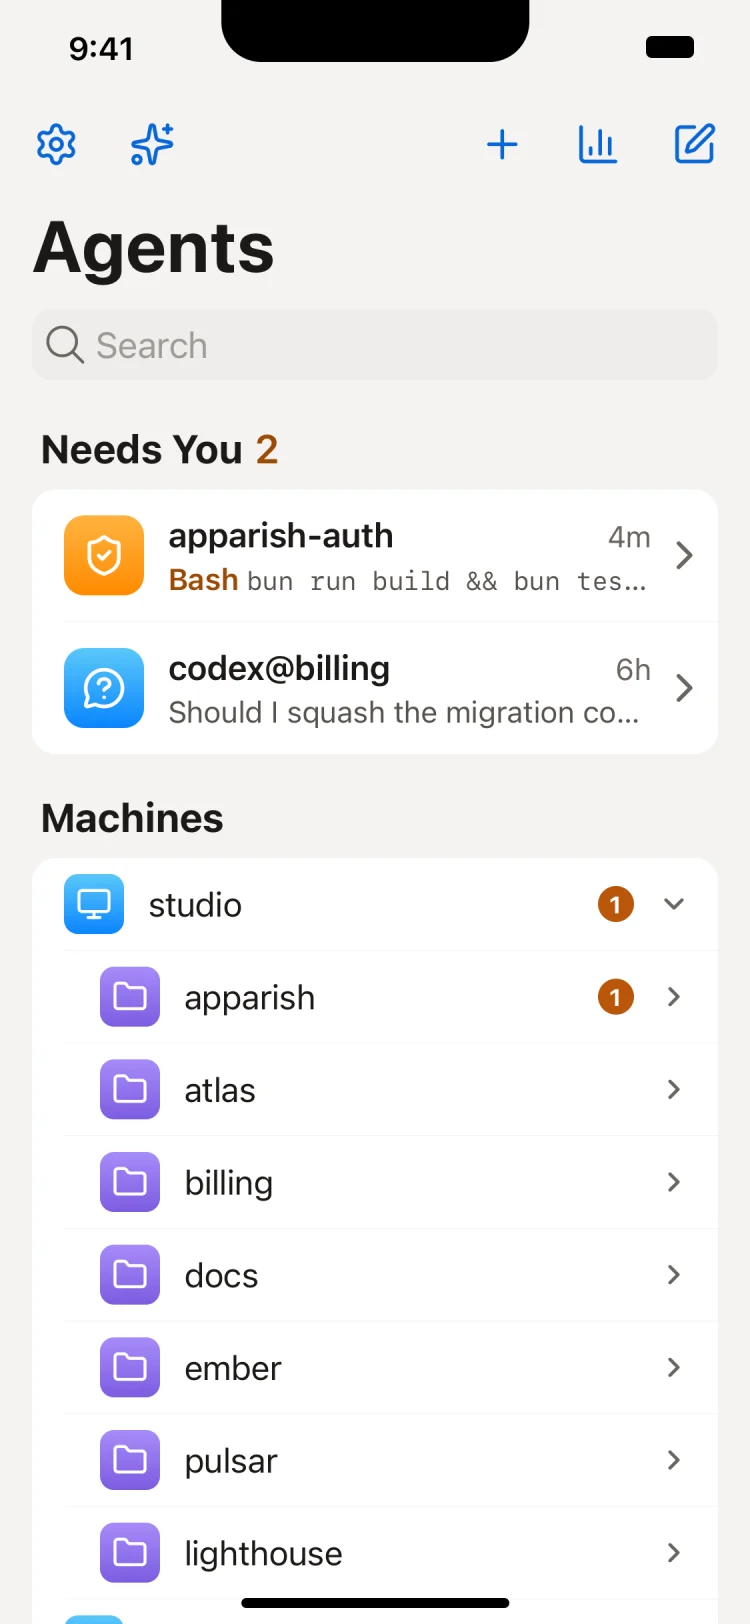
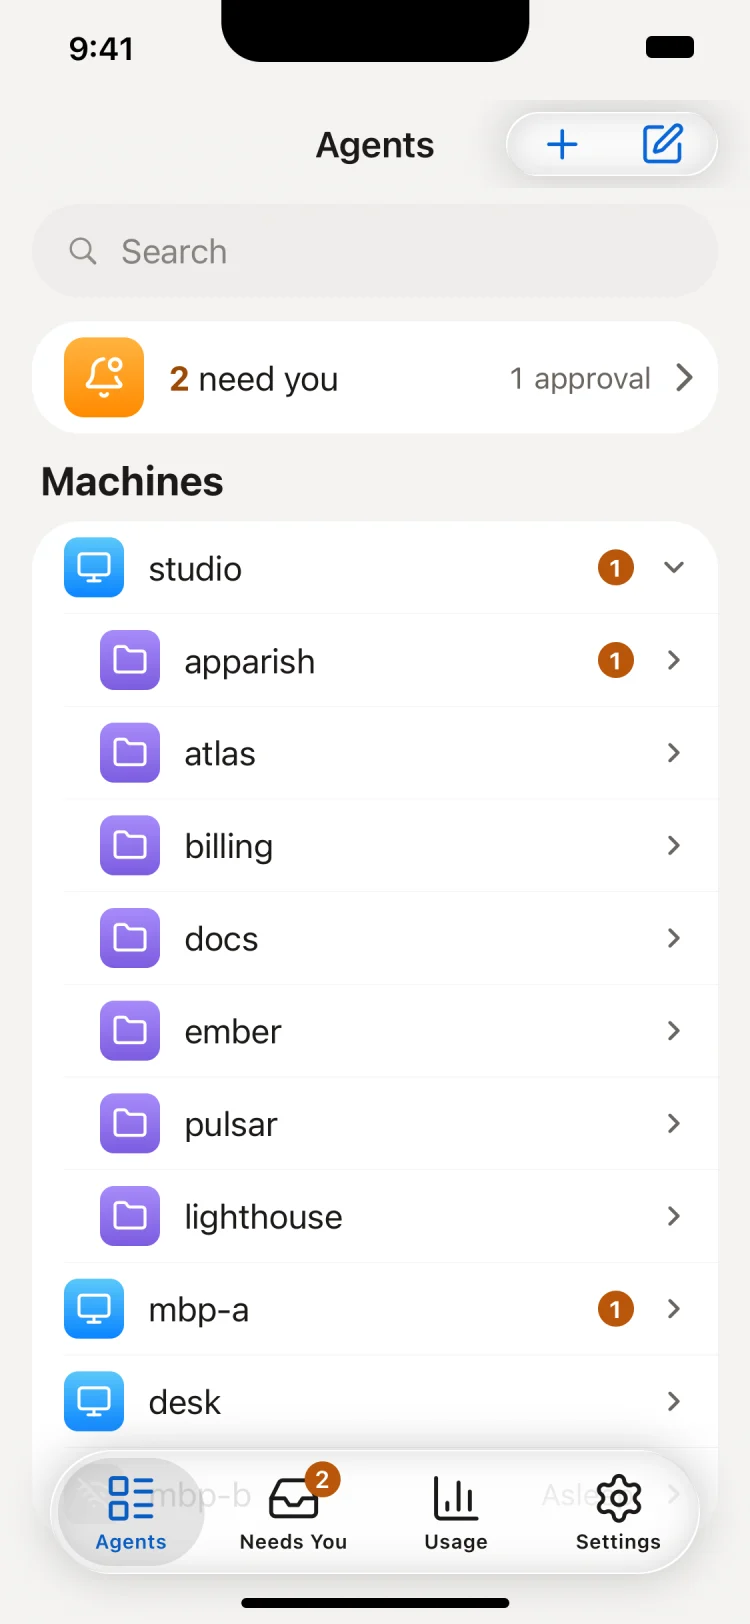
README: regenerated phone and desktop screenshots, the phone shot's alt text for the tab bar

diff --git a/README.md b/README.md
@@ -80,7 +80,7 @@ Machines signed in as you link on their own. There are no pairing codes. `pulsar
 
 Run `pulsar qr` and scan the code with your phone, then add the page to your home screen. On a computer, run `pulsar ui`.
 
-<p align="center"><img src="docs/assets/screenshots/phone-home.webp" alt="Phone: the Agents home screen with Needs you (a Bash approval and a question) and the machines with their projects" width="300"></p>
+<p align="center"><img src="docs/assets/screenshots/phone-home.webp" alt="Phone: the Agents tab with a search field, a 2 need you row, the machines with their projects, and the floating tab bar (Agents, Needs You, Usage, Settings)" width="300"></p>
 
 - See every machine, project and agent, with a "Needs you" list.
 - Watch each session live: replies, tool calls, diffs, code and images.
